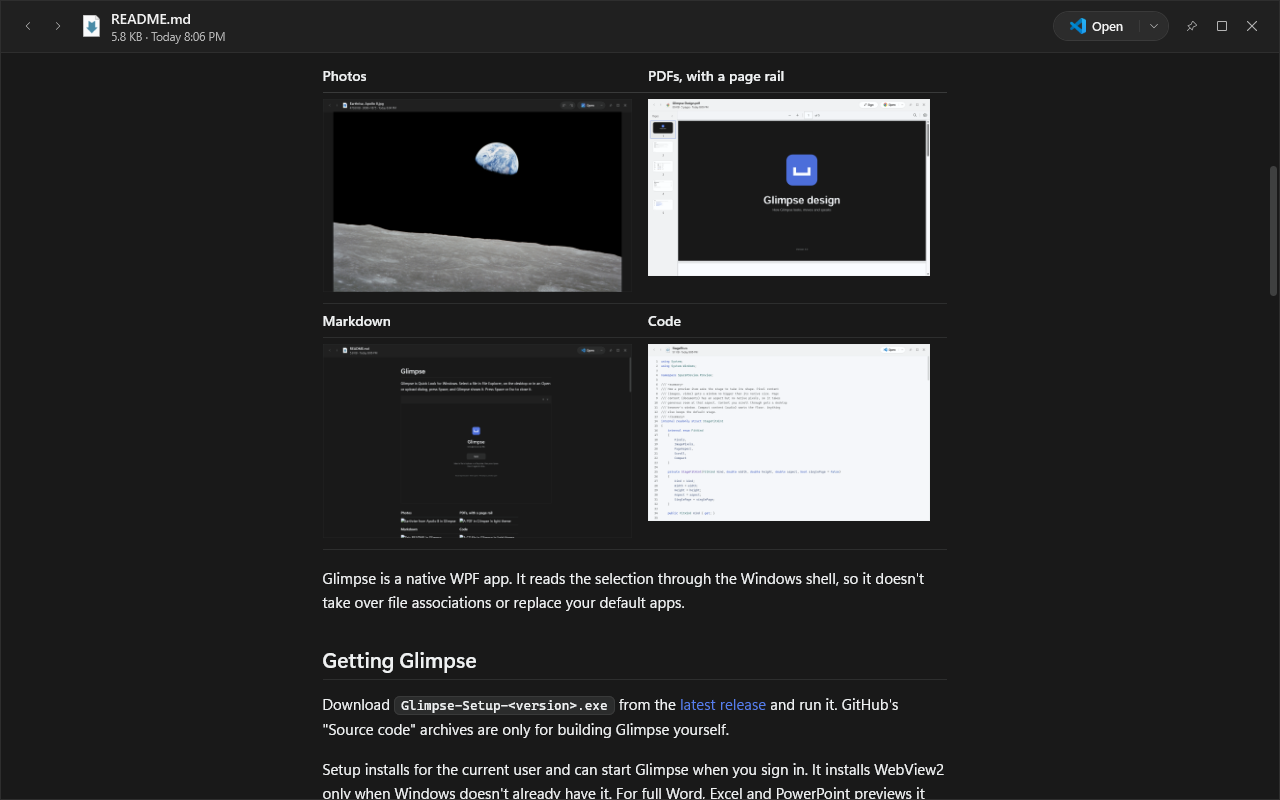
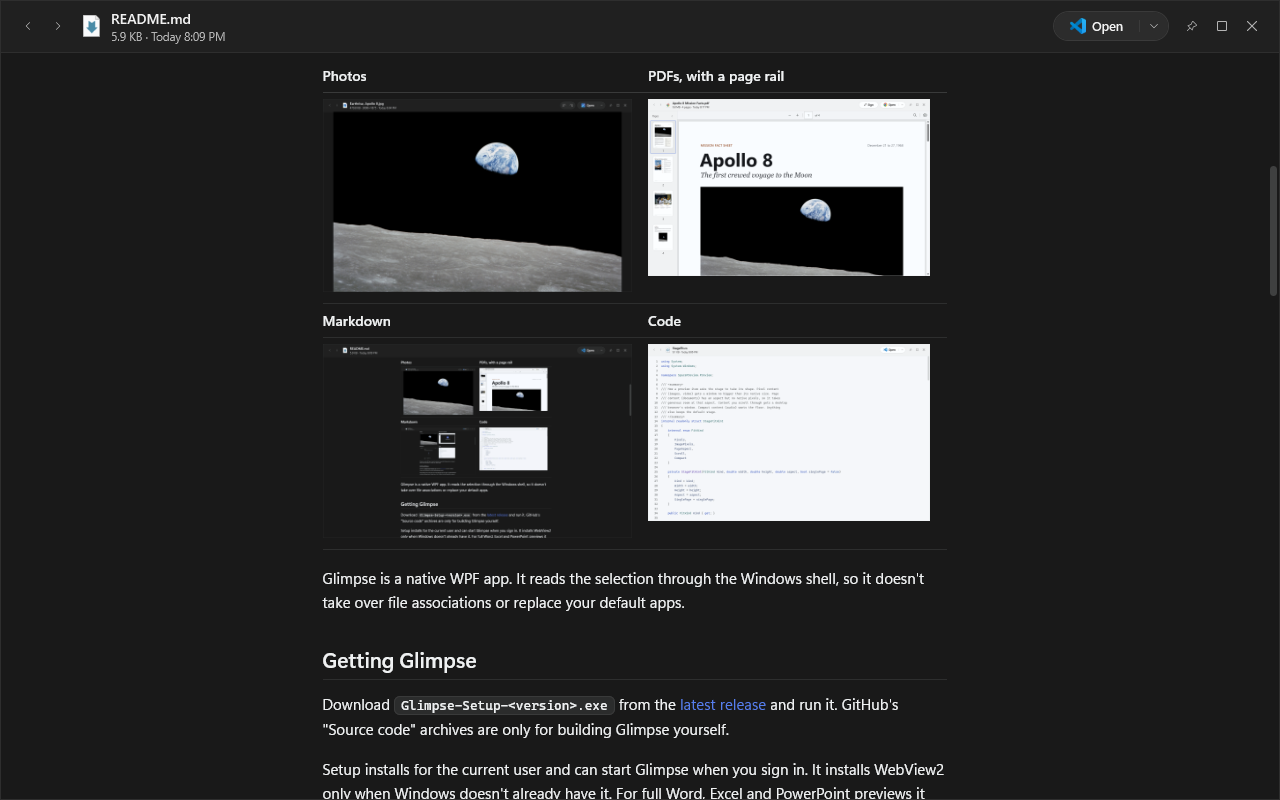
Show a real document in the PDF screenshot, and add a social preview card
The PDF screenshot showed Glimpse's own logo on a design document, which
read as the app rather than a file. It now shows an Apollo 8 fact sheet
laid out from NASA's public-domain photographs. docs/social-preview.png
is the 1280 x 640 card for the repository's social preview.

Changed region(s): [[0.5, 0.125, 0.75, 0.3438], [0.3125, 0.4375, 0.4375, 0.6875]]

diff --git a/README.md b/README.md
@@ -105,4 +105,4 @@ Please use the process in [SECURITY.md](SECURITY.md) to report a vulnerability.
 
 ## License
 
-Glimpse is available under the [MIT License](LICENSE). The Earthrise photo in the screenshots is by NASA (Apollo 8, 1968) and is in the public domain.
+Glimpse is available under the [MIT License](LICENSE). The photographs in the screenshots are NASA's, from Apollo 8 in 1968, and are in the public domain.
